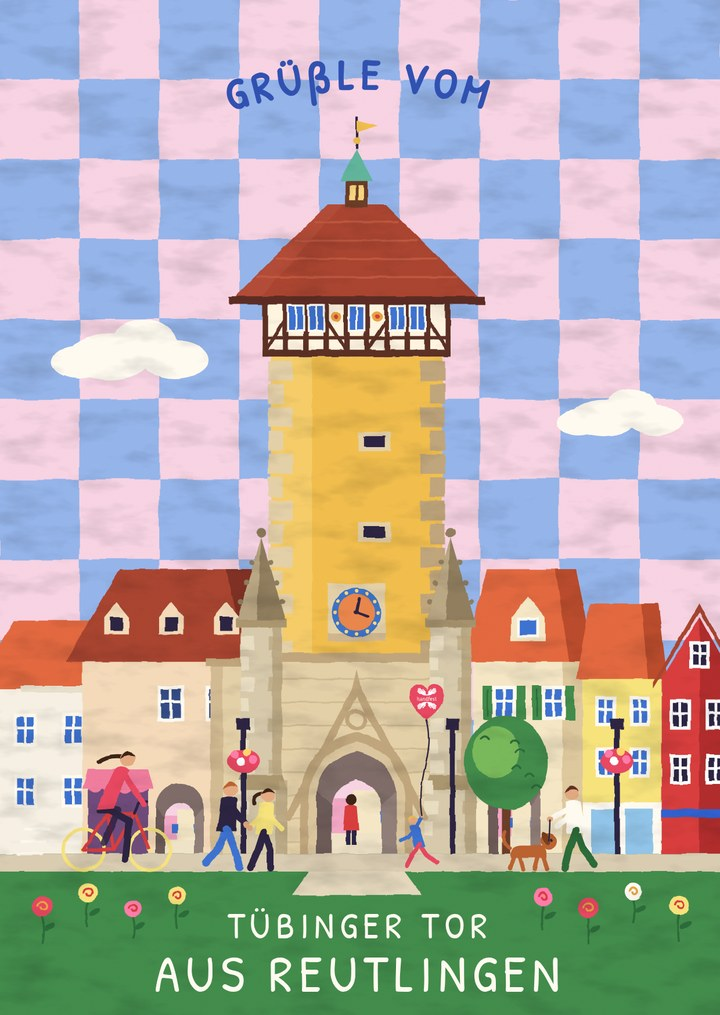
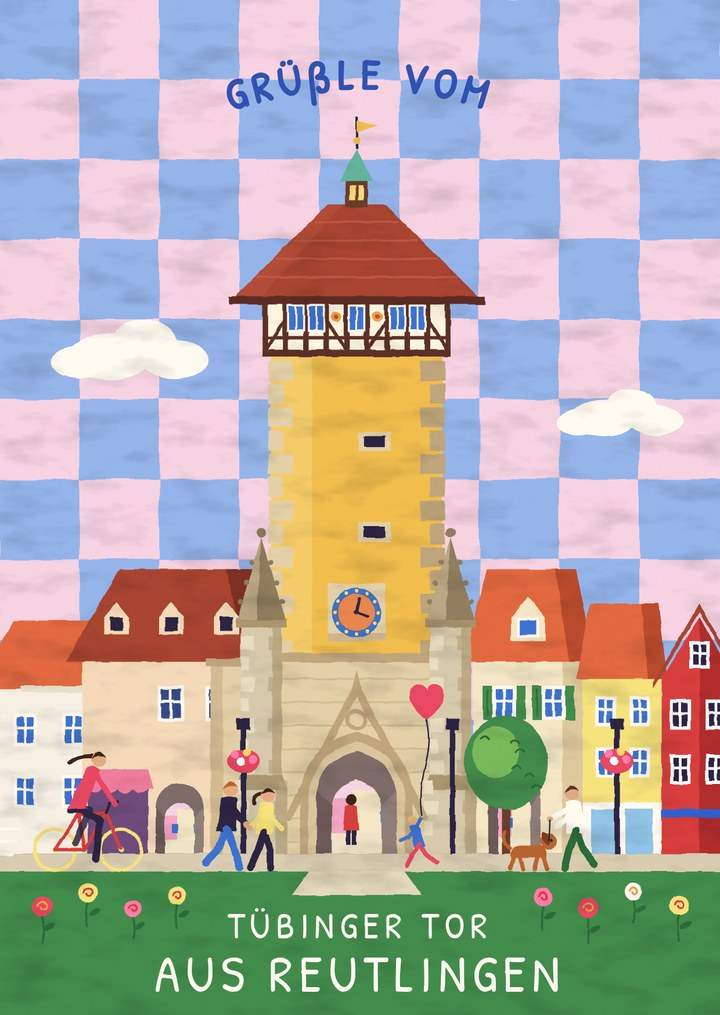
Figuren als Pappaufsteller entlang der Laufrichtung, neue Laufanimation, größere Tüte
Claude-Session: https://claude.ai/code/session_01Vgrd925eMx43gK2fQE6PYU

Changed region(s): [[0.0306, 0.733, 0.2444, 0.8857], [0.5806, 0.6719, 0.6111, 0.7025]]

diff --git a/index.html b/index.html
@@ -571,7 +571,6 @@ function figureTexture(kind, top, bottom, hair, frame, opt = {}){
     g.scale(res, res);
     g.lineCap = 'round'; g.lineJoin = 'round';
     const skin = '#e3a980';
-    const walk = frame === 0 ? 1 : -1;
     if (kind === 'bike'){
       g.lineWidth = 6; g.strokeStyle = '#f7e27a';
       for (const cx of [30, 98]){ g.beginPath(); g.arc(cx, 160, 24, 0, 7); g.stroke(); }
@@ -587,27 +586,48 @@ function figureTexture(kind, top, bottom, hair, frame, opt = {}){
       g.fillStyle = hair; g.beginPath(); g.arc(78, 40, 12, Math.PI * 1.05, Math.PI * 1.95); g.fill();
       return;
     }
+    // side view, facing right. frame = 0..7 of one stride cycle; near limbs in front of the torso, far limbs behind and a bit darker
     const kid = kind === 'kid';
-    const s = kid ? 0.66 : 1, ox = 64, base = 186;
-    const hip = [ox, base - 86 * s], sh = [ox + 3, base - 150 * s];
-    g.strokeStyle = bottom; g.lineWidth = 15 * s;
-    g.beginPath(); g.moveTo(...hip); g.lineTo(ox - 20 * walk * s, base - 44 * s); g.lineTo(ox - 30 * walk * s, base - 4); g.stroke();
-    g.beginPath(); g.moveTo(...hip); g.lineTo(ox + 16 * walk * s, base - 44 * s); g.lineTo(ox + 30 * walk * s, base - 6); g.stroke();
-    g.strokeStyle = '#2a2140'; g.lineWidth = 8 * s;
-    g.fillStyle = top; g.beginPath(); g.moveTo(ox - 21 * s, hip[1] + 6); g.lineTo(sh[0] - 17 * s, sh[1]); g.quadraticCurveTo(sh[0], sh[1] - 10 * s, sh[0] + 17 * s, sh[1]); g.lineTo(ox + 21 * s, hip[1] + 6); g.fill();
-    g.strokeStyle = top; g.lineWidth = 11 * s;
-    g.beginPath(); g.moveTo(sh[0] - 10 * s, sh[1] + 8); g.lineTo(ox - 26 * walk * s, sh[1] + 52 * s); g.stroke();
-    g.beginPath(); g.moveTo(sh[0] + 10 * s, sh[1] + 8); g.lineTo(ox + 28 * walk * s, sh[1] + 50 * s); g.stroke();
-    g.fillStyle = skin; g.beginPath(); g.arc(sh[0] + 2, sh[1] - 20 * s, 15 * s, 0, 7); g.fill();
-    g.fillStyle = hair; g.beginPath(); g.arc(sh[0] + 2, sh[1] - 23 * s, 15 * s, Math.PI * 1.02, Math.PI * 1.98); g.fill();
-    if (kid && opt.balloon !== false){ g.strokeStyle = '#2a2140'; g.lineWidth = 2; g.beginPath(); g.moveTo(ox + 28 * walk * s, sh[1] + 50 * s); g.quadraticCurveTo(ox + 40, 30, ox + 34, 22); g.stroke();
-      heartWithLogo(g, ox + 34, 36, 1); }
-    if (opt.bag){                                   // paper bag from the shop, swinging in the front hand
-      const hx = ox + 28 * walk * s, hy = sh[1] + 50 * s;
-      g.strokeStyle = '#8a0a5e'; g.lineWidth = 2.5; g.beginPath(); g.moveTo(hx - 7, hy + 9); g.quadraticCurveTo(hx, hy - 8, hx + 7, hy + 9); g.stroke();
-      g.fillStyle = HF_PINK; g.fillRect(hx - 16, hy + 8, 32, 36);
-      g.fillStyle = 'rgba(0,0,0,.12)'; g.fillRect(hx + 10, hy + 8, 6, 36);
-      if (LOGO.white) g.drawImage(LOGO.white, hx - 11, hy + 13, 22, 22 * 411 / 370);
+    const s = kid ? 0.66 : 1, ox = 60, base = 188;
+    const ph = frame / 8 * Math.PI * 2, sw = Math.cos(ph), up = Math.sin(ph);
+    const D = Math.PI / 180, LT = 44 * s, LS = 42 * s, UA = 30 * s, FA = 28 * s;
+    const limb = (x, y, a1, a2, l1, l2) => { const k = [x + l1 * Math.sin(a1), y + l1 * Math.cos(a1)]; return [k, [k[0] + l2 * Math.sin(a2), k[1] + l2 * Math.cos(a2)]]; };
+    // legs: the leg that swings forward lifts its knee; stance leg stays straight
+    const legs = [[+1, -up], [-1, up]].map(([sg, swing]) => {
+      const thigh = (22 * sw * sg + 14 * Math.max(0, swing)) * D;
+      const shin = thigh - (38 * Math.max(0, swing) + 6 * Math.max(0, -sw * sg)) * D;
+      return { thigh, shin };
+    });
+    const drop = Math.max(...legs.map(l => LT * Math.cos(l.thigh) + LS * Math.cos(l.shin)));
+    const hip = [ox, base - drop], sh = [ox + 4 * s, hip[1] - 64 * s];
+    const strokeLimb = (pts, col, w, far) => {
+      g.lineWidth = w; g.beginPath(); g.moveTo(pts[0][0], pts[0][1]); for (const q of pts.slice(1)) g.lineTo(q[0], q[1]);
+      g.strokeStyle = col; g.stroke(); if (far){ g.strokeStyle = 'rgba(42,33,64,.22)'; g.stroke(); }
+    };
+    const legPts = (l) => { const [k, f] = limb(hip[0], hip[1], l.thigh, l.shin, LT, LS); return [hip, k, f]; };
+    const bagArm = !!opt.bag, balloonArm = kid && opt.balloon !== false;
+    // arms swing opposite to the leg on the same side
+    const armFar = limb(sh[0], sh[1] + 6 * s, 26 * sw * D, (26 * sw + 24) * D, UA, FA);
+    const nearA = bagArm ? 5 * -sw * D : balloonArm ? 150 * D : 26 * -sw * D;
+    const nearB = bagArm ? nearA : balloonArm ? 170 * D : (26 * -sw + 24) * D;
+    const armNear = limb(sh[0], sh[1] + 6 * s, nearA, nearB, UA, FA);
+    strokeLimb([[sh[0], sh[1] + 6 * s], ...armFar], top, 11 * s, true);
+    strokeLimb(legPts(legs[1]), bottom, 15 * s, true);
+    g.fillStyle = top; g.beginPath(); g.moveTo(hip[0] - 20 * s, hip[1] + 6 * s); g.lineTo(sh[0] - 16 * s, sh[1]); g.quadraticCurveTo(sh[0], sh[1] - 10 * s, sh[0] + 16 * s, sh[1]); g.lineTo(hip[0] + 20 * s, hip[1] + 6 * s); g.fill();
+    strokeLimb(legPts(legs[0]), bottom, 15 * s, false);
+    g.fillStyle = skin; g.beginPath(); g.arc(sh[0] + 3 * s, sh[1] - 20 * s, 15 * s, 0, 7); g.fill();
+    g.fillStyle = hair; g.beginPath(); g.arc(sh[0] + 1 * s, sh[1] - 23 * s, 15 * s, Math.PI * 1.02, Math.PI * 1.98); g.fill();
+    strokeLimb([[sh[0], sh[1] + 6 * s], ...armNear], top, 11 * s, false);
+    const hand = armNear[1];
+    g.fillStyle = skin; g.beginPath(); g.arc(hand[0], hand[1], 5 * s, 0, 7); g.fill();
+    if (balloonArm){ g.strokeStyle = '#2a2140'; g.lineWidth = 2; g.beginPath(); g.moveTo(hand[0], hand[1]); g.quadraticCurveTo(hand[0] + 8, 50, ox + 38, 36); g.stroke();
+      heartWithLogo(g, ox + 38, 36, 1); }
+    if (bagArm){                                    // shop bag hanging from the near hand
+      const bw = 36, bh = 40, hx = hand[0], hy = hand[1];
+      g.strokeStyle = '#8a0a5e'; g.lineWidth = 3; g.beginPath(); g.moveTo(hx - 9, hy + 11); g.quadraticCurveTo(hx, hy - 9, hx + 9, hy + 11); g.stroke();
+      g.fillStyle = HF_PINK; g.fillRect(hx - bw / 2, hy + 10, bw, bh);
+      g.fillStyle = 'rgba(0,0,0,.12)'; g.fillRect(hx + bw / 2 - 7, hy + 10, 7, bh);
+      if (LOGO.white){ const lw = 26; g.drawImage(LOGO.white, hx - lw / 2 - 2, hy + 10 + (bh - lw * 411 / 370) / 2, lw, lw * 411 / 370); }
     }
   });
 }
@@ -624,25 +644,42 @@ function dogTexture(frame){
   });
 }
 const walkers = [];
+// paper cut-outs: an upright card standing along the walking line, so the figure always faces where it goes
+// (seen from the other side the card shows its mirrored back, which again faces the right way).
+// When someone walks straight at the camera the card would turn edge-on; it then turns towards the viewer, at most 45 degrees.
+const cardGeo = new THREE.PlaneGeometry(1, 1); cardGeo.translate(0, 0.48, 0);
+function mkCard(tex, w, h){
+  const m = new THREE.MeshBasicMaterial({ map: tex[0], transparent: true, alphaTest: 0.3, opacity: 0, side: THREE.DoubleSide });
+  const c = new THREE.Mesh(cardGeo, m); c.scale.set(w, h, 1); scene.add(c); return c;
+}
+const MAX_TURN = 45 * Math.PI / 180;
+function orientCard(card, x, z, dx, dz){
+  const base = Math.atan2(-dz, dx);                                   // local +x (the figure's front) along the walking direction
+  const cx = camera.position.x - x, cz = camera.position.z - z;
+  let d = Math.atan2(cx, cz) - base;                                  // angle between the card normal and the view direction
+  d = Math.atan2(Math.sin(d), Math.cos(d));
+  if (Math.abs(d) > Math.PI / 2) d = Math.atan2(Math.sin(d - Math.PI), Math.cos(d - Math.PI));   // the back side is the one we see
+  const turn = Math.sign(d) * Math.max(0, Math.abs(d) - (Math.PI / 2 - MAX_TURN));
+  card.rotation.set(0, base + turn, 0);
+}
 function buildPeople(paths){
   // every figure walks or rides a straight line; the lines were checked against the building footprints
   // and lead only through the gate and the two side passages
-  const mk = (tex, w, h) => { const m = new THREE.SpriteMaterial({ map: tex[0], transparent: true, alphaTest: 0.3, opacity: 0 });
-    const sp = new THREE.Sprite(m); sp.center.set(0.5, 0.02); sp.scale.set(w, h, 1); scene.add(sp); return sp; };
   paths.forEach((p, i) => {
     const kind = p.kind === 'dog' ? 'walk' : p.kind;
     const bag = i === BAG_WALKER, res = (kind === 'kid' || bag) ? 2 : 1;
-    const tex = [0, 1].map(fr => figureTexture(kind, p.top, p.bottom, p.hair, fr, { bag, res }));
-    const s = mk(tex, p.h * 128 / 192 * (kind === 'bike' ? 1.55 : 1), p.h * (kind === 'bike' ? 1.1 : 1));
+    const frames = kind === 'bike' ? [0, 1] : [0, 1, 2, 3, 4, 5, 6, 7];
+    const tex = frames.map(fr => figureTexture(kind, p.top, p.bottom, p.hair, fr, { bag, res }));
+    const s = mkCard(tex, p.h * 128 / 192 * (kind === 'bike' ? 1.55 : 1), p.h * (kind === 'bike' ? 1.1 : 1));
     const A = new THREE.Vector2(p.a[0], p.a[1]), B = new THREE.Vector2(p.b[0], p.b[1]);
-    const w = { s, tex, A, B, L: A.distanceTo(B), kind, speed: p.speed, t: hash(i + 1) * A.distanceTo(B), dir: 1, wait: 0 };
-    if (p.kind === 'dog'){ w.dogTex = [dogTexture(0), dogTexture(1)]; w.dog = mk(w.dogTex, 0.95, 0.6); }
-    if (kind === 'kid'){ w.texNo = [0, 1].map(fr => figureTexture(kind, p.top, p.bottom, p.hair, fr, { balloon: false, res })); w.hasBalloon = true; w.h = p.h; }
+    const w = { s, tex, A, B, L: A.distanceTo(B), kind, speed: p.speed, t: hash(i + 1) * A.distanceTo(B), dir: 1, wait: 0,
+                stride: kind === 'kid' ? 0.95 : 1.3 };
+    if (p.kind === 'dog'){ w.dogTex = [dogTexture(0), dogTexture(1)]; w.dog = mkCard(w.dogTex, 0.95, 0.6); }
+    if (kind === 'kid'){ w.texNo = frames.map(fr => figureTexture(kind, p.top, p.bottom, p.hair, fr, { balloon: false, res })); w.hasBalloon = true; w.h = p.h; }
     walkers.push(w);
   });
 }
 function updatePeople(dt, time){
-  const v = new THREE.Vector3(), v2 = new THREE.Vector3();
   for (const w of walkers){
     if (w.wait > 0){ w.wait -= dt; w.s.material.opacity = 0; if (w.dog) w.dog.material.opacity = 0; continue; }
     w.t += w.speed * dt;
@@ -651,21 +688,23 @@ function updatePeople(dt, time){
     const from = w.dir > 0 ? w.A : w.B, to = w.dir > 0 ? w.B : w.A;
     const x = w.A.x + (w.B.x - w.A.x) * f, z = w.A.y + (w.B.y - w.A.y) * f;
     const fade = Math.min(1, w.t / 2.5, (w.L - w.t) / 2.5);
-    const bob = w.kind === 'bike' ? 0 : Math.abs(Math.sin(time * 6 * w.speed)) * 0.06;
-    w.s.position.set(x, groundY(x, z) + bob, z);
+    w.s.position.set(x, groundY(x, z), z);
     w.s.material.opacity = fade;
-    w.s.material.map = (w.texNo && !w.hasBalloon ? w.texNo : w.tex)[Math.floor(time * (w.kind === 'bike' ? 3 : 4) * w.speed) % 2];
+    const set = w.texNo && !w.hasBalloon ? w.texNo : w.tex;
+    // frames follow the distance walked, so feet do not slide
+    const fr = w.kind === 'bike' ? Math.floor(time * 3 * w.speed) % 2 : Math.floor(w.t / w.stride * 8) % 8;
+    w.s.material.map = set[fr];
     const dx = to.x - from.x, dz = to.y - from.y, len = Math.hypot(dx, dz);
-    const sd = v.set(x + dx / len, 0, z + dz / len).project(camera).x - v2.set(x, 0, z).project(camera).x;
-    w.s.scale.x = Math.abs(w.s.scale.x) * (sd >= 0 ? 1 : -1);
+    orientCard(w.s, x, z, dx, dz);
     if (w.texNo && w.hasBalloon && entered && time - enteredAt > 4 && time - lastRelease > 45 && w.t / w.L > 0.4 && w.t / w.L < 0.6 && fade > 0.99){
-      w.hasBalloon = false; lastRelease = time; releaseBalloon(w, x, z, sd >= 0 ? 1 : -1);
+      w.hasBalloon = false; lastRelease = time;
+      releaseBalloon(w, x, z, new THREE.Vector3(1, 0, 0).applyEuler(w.s.rotation));
     }
     if (w.dog){
       const dxp = x + dx / len * 1.3, dzp = z + dz / len * 1.3;
       w.dog.position.set(dxp, groundY(dxp, dzp), dzp); w.dog.material.opacity = fade;
-      w.dog.material.map = w.dogTex[Math.floor(time * 6) % 2];
-      w.dog.scale.x = Math.abs(w.dog.scale.x) * (sd >= 0 ? 1 : -1);
+      w.dog.material.map = w.dogTex[Math.floor(w.t / 0.45) % 2];
+      orientCard(w.dog, dxp, dzp, dx, dz);
     }
   }
 }
@@ -724,7 +763,7 @@ function heartWithLogo(g, cx, by, k){
 // ---- the kid's heart balloon slips away and floats up over the town
 const runaways = [];
 let runawayTex = null;
-function releaseBalloon(w, x, z, flip){
+function releaseBalloon(w, x, z, fwd){
   if (!runawayTex) runawayTex = canvasTex(256, 512, (g) => {
     g.strokeStyle = '#2a2140'; g.lineWidth = 3; g.lineCap = 'round';
     g.beginPath(); g.moveTo(128, 168); g.bezierCurveTo(110, 260, 150, 360, 124, 506); g.stroke();
@@ -733,8 +772,7 @@ function releaseBalloon(w, x, z, flip){
   const sp = new THREE.Sprite(new THREE.SpriteMaterial({ map: runawayTex, transparent: true, depthWrite: false }));
   sp.center.set(0.5, 0); sp.scale.set(0.8, 1.6, 1);
   // start exactly where the balloon was drawn on the kid: 0.34 m sideways (screen space), heart tip 1.5 m up
-  const right = new THREE.Vector3().setFromMatrixColumn(camera.matrixWorld, 0).setY(0).normalize();
-  const p0 = new THREE.Vector3(x, groundY(x, z), z).addScaledVector(right, 0.34 * flip);
+  const p0 = new THREE.Vector3(x, groundY(x, z), z).addScaledVector(fwd, 0.34);
   p0.y += (1 - 36 / 192 - 0.02) * w.h - (1 - 170 / 512) * 1.6;
   sp.position.copy(p0); scene.add(sp);
   runaways.push({ sp, p0, age: 0, seed: Math.random() * 6 });
@@ -995,6 +1033,7 @@ window.__hab = a => { hab.t = a; };
 window.__plane = (sv, dir, lane) => Object.assign(plane, { s: sv, dir, lane, wait: 0 });
 window.__release = () => { const w = walkers.find(w => w.texNo); lastRelease = -1e9; w.t = w.L * 0.5; };
 window.__walk = (i, f, dir = 1) => { const w = walkers[i]; w.t = w.L * f; w.wait = 0; w.dir = dir; };
+window.__frames = (i, no) => { const w = walkers[i]; const set = no ? w.texNo : w.tex; const c = document.createElement('canvas'); const iw = set[0].image.width, ih = set[0].image.height; c.width = iw * set.length; c.height = ih; const g = c.getContext('2d'); g.fillStyle = '#ddd'; g.fillRect(0, 0, c.width, c.height); set.forEach((t, k) => g.drawImage(t.image, k * iw, 0)); return c.toDataURL(); };
 window.__pose = (d, h) => { const t = new THREE.Vector3(TOWER.x, 14, TOWER.z); const eye = t.clone().addScaledVector(FRONT, d); eye.y = h; camera.position.copy(eye); controls.target.copy(t); fly = null; };
 </script>
 </body>
